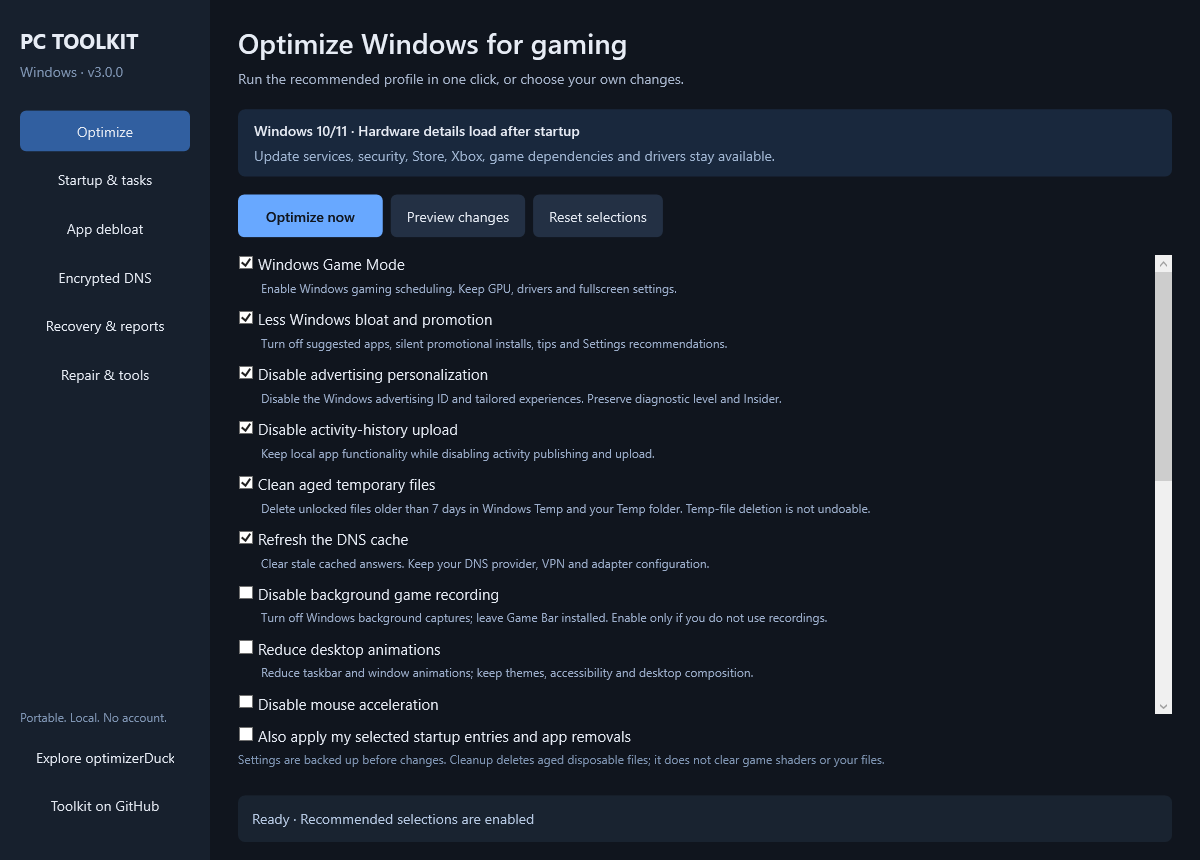
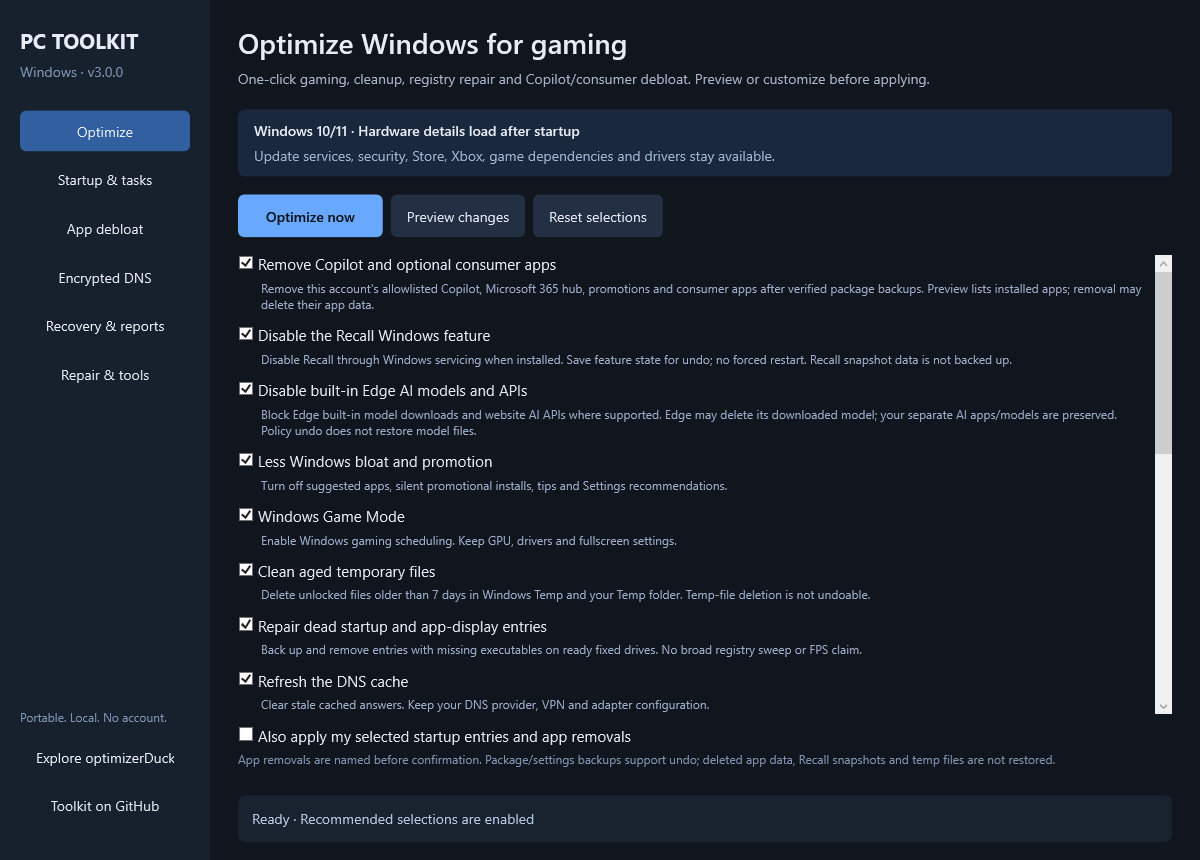
Expand one-click AI debloat and repair short-path cleanup with checked recovery

diff --git a/Toolkit.xaml b/Toolkit.xaml
@@ -63,7 +63,7 @@
         <Grid.RowDefinitions><RowDefinition Height="Auto"/><RowDefinition Height="Auto"/><RowDefinition Height="*"/><RowDefinition Height="Auto"/></Grid.RowDefinitions>
         <StackPanel>
           <TextBlock Text="Optimize Windows for gaming" Style="{StaticResource Heading}"/>
-          <TextBlock Text="Run the recommended profile in one click, or choose your own changes." Style="{StaticResource Description}"/>
+          <TextBlock Text="One-click gaming, cleanup, registry repair and Copilot/consumer debloat. Preview or customize before applying." Style="{StaticResource Description}"/>
           <Border Background="#19283D" Padding="16,12" CornerRadius="7" Margin="0,0,0,18">
             <StackPanel>
               <TextBlock Name="HardwareText" Text="Windows 10/11 · Hardware details load after startup" FontWeight="SemiBold"/>
@@ -79,7 +79,7 @@
         <ScrollViewer Grid.Row="2" VerticalScrollBarVisibility="Auto"><StackPanel Name="OptionsPanel"/></ScrollViewer>
         <StackPanel Grid.Row="3" Margin="0,12,0,12">
           <CheckBox Name="IncludeReviewed" Content="Also apply my selected startup entries and app removals" IsChecked="False" ToolTip="Select rows in Startup and App debloat first. They can be included in this same one-click operation and recovery report."/>
-          <TextBlock Text="Settings are backed up before changes. Cleanup deletes aged disposable files; it does not clear game shaders or your files." Foreground="#7E94B2" FontSize="12"/>
+          <TextBlock Text="App removals are named before confirmation. Package/settings backups support undo; deleted app data, Recall snapshots and temp files are not restored." Foreground="#7E94B2" FontSize="12"/>
         </StackPanel>
       </Grid>
       <Grid Name="StartupPage" Visibility="Collapsed">
@@ -106,7 +106,7 @@
           <ComboBox Name="ProviderCombo" DisplayMemberPath="Name" Height="36"/>
         </StackPanel>
         <WrapPanel Grid.Row="2"><Button Name="ApplyDns" Content="Apply encrypted DNS" Background="#68A8FF" Foreground="#10151E"/><Button Name="VerifyDns" Content="Verify"/><Button Name="RestoreDns" Content="Restore previous"/><Button Name="DhcpDns" Content="Use automatic DNS"/><Button Name="RefreshDns" Content="Refresh adapters" Margin="0,10,0,0"/></WrapPanel>
-        <TextBlock Grid.Row="3" Text="Mullvad public encrypted DNS ends November 2, 2026. Quad9 is the recommended ongoing provider.&#10;&#10;DoH encrypts DNS queries. VPN routing, public IP, browsers and unrelated adapters retain their own configuration. IPv4 and IPv6 automatic/static modes are saved separately." Foreground="#9FB5D2" Margin="0,24,0,0"/>
+        <TextBlock Grid.Row="3" Text="Mullvad public encrypted DNS ends November 2, 2026; new applies have been removed. Existing backups remain restorable. Choose Quad9 or AdGuard for ongoing service.&#10;&#10;DoH encrypts DNS queries. VPN routing, public IP, browsers and unrelated adapters retain their own configuration. IPv4 and IPv6 automatic/static modes are saved separately." Foreground="#9FB5D2" Margin="0,24,0,0"/>
       </Grid>
       <Grid Name="RecoveryPage" Visibility="Collapsed">
         <Grid.RowDefinitions><RowDefinition Height="Auto"/><RowDefinition Height="Auto"/><RowDefinition Height="*"/></Grid.RowDefinitions>

diff --git a/README.md b/README.md
@@ -12,7 +12,7 @@ Rendered from the actual WPF dashboard with initial selections. Hardware and res
 
 Download the **complete current source** with GitHub's **Code → Download ZIP**, extract it, then double-click **START_TOOLKIT.bat**. Accept UAC for your own Windows account. Keep the tool folders and shared `Modules` folder together. Older releases do not contain this dashboard.
 
-**Optimize now** applies six recommended actions together:
+**Optimize now** applies ten recommended actions together:
 
 - Enable Windows Game Mode.
 - Disable promotional suggestions and silent suggested-app installs.
@@ -20,10 +20,14 @@ Download the **complete current source** with GitHub's **Code → Download ZIP**
 - Disable activity-history publishing and upload.
 - Clean disposable Temp files older than seven days, checking write/access age and skipping protected paths, links and locked files.
 - Refresh cached DNS answers, preserving provider and adapter settings.
+- Repair confirmed dead startup/MuiCache registry entries with typed backups.
+- Disable the Recall optional feature when present and enabled, saving its state for undo.
+- Remove allowlisted consumer apps, including modern Microsoft Copilot and the Microsoft 365 hub, after verified package copies.
+- Disable Edge built-in AI model downloads and website AI APIs where supported.
 
-**Preview changes** explains the plan without applying it. Eleven additional choices cover captures, mouse acceleration, animations, Explorer/taskbar preferences, Recall opt-out, Delivery Optimization cleanup, SSD ReTrim and targeted registry care. Some settings need sign-out to refresh; no restart is forced.
+**Preview changes** explains the plan without applying it. Nine additional choices cover captures, mouse acceleration, animations, Explorer/taskbar preferences, Delivery Optimization cleanup and SSD ReTrim. Some settings need sign-out to refresh; no restart is forced.
 
-For a larger one-click run, first select desired apps and startup items on their pages, then tick **Also apply my selected startup entries and app removals** on Optimize. They share one operation/recovery journal. App removal has a confirmation naming the apps.
+The one-click profile names installed apps in its removal confirmation; package backups are verified before each uninstall. To keep consumer apps, untick **Remove Copilot and optional consumer apps**. For individual app removals and startup control, select rows on their pages and tick **Also apply my selected startup entries and app removals**. These changes share one recovery journal.
 
 ## Six organized pages
 
@@ -40,7 +44,7 @@ The gaming console adds HAGS controls, temporary game-session priority/stay-awak
 
 ## Compatibility and registry care
 
-The recommended profile preserves Windows Update, Defender, Store, Xbox, Gaming Services, browser state, AI model stores, drivers, power/sleep, shaders, network offloads, timers and GPU interrupt settings. It does not mass-disable services, reset networking or remove packages without reviewed selections.
+The recommended profile preserves Windows Update, Defender, Store, Xbox, Gaming Services, browser state, AI model stores, drivers, power/sleep, shaders, network offloads, timers and GPU interrupt settings. It does not mass-disable services or reset networking. Consumer-AppX removal is a visible default choice with a named confirmation; Store, Xbox, Gaming Services, WebView and frameworks are excluded.
 
 Strict privacy, network reset and shader troubleshooting remain explicit advanced choices. No optimizer guarantees FPS gains or policy effects on every edition/build. Registry read-back proves a saved setting, not better frame times.
 
@@ -52,7 +56,7 @@ Existing DoH entries are updated in place. Restore matches adapter GUIDs and sep
 
 Quad9 requires its live TXT transport test to report `doh`; an unavailable test fails verification. AdGuard checks configuration/resolution without claiming the same live attestation.
 
-**Mullvad public encrypted DNS ends November 2, 2026.** Legacy profiles remain until then; new applies are subsequently blocked, while backup restore remains available. Use Quad9 or AdGuard for ongoing service. [Mullvad announcement](https://mullvad.net/en/blog/2026/9/3/shutting-down-our-public-encrypted-dns-servers-and-sponsoring-quad9-instead), [Quad9 services](https://docs.quad9.net/services/), [AdGuard DNS](https://adguard-dns.io/en/public-dns.html).
+**Mullvad public encrypted DNS ends November 2, 2026.** Its new-apply choices are removed now; old backups remain restorable. Historical Mullvad launchers open the supported-provider menu. Use Quad9 or AdGuard for ongoing service. [Mullvad announcement](https://mullvad.net/en/blog/2026/9/3/shutting-down-our-public-encrypted-dns-servers-and-sponsoring-quad9-instead), [Quad9 services](https://docs.quad9.net/services/), [AdGuard DNS](https://adguard-dns.io/en/public-dns.html).
 
 ## Recommended companion: optimizerDuck
 
@@ -66,7 +70,9 @@ Dashboard reports, typed registry journals, task states and verified package cop
 
 Registry state is saved **before** mutation, preserves types/literal environment strings, and is checked after restore. Undo keeps intervening registry changes and lists conflicts. Repeating completed undo preserves current state. Failed registry actions attempt to restore partial changes.
 
-Deleted temporary/cache files are not recoverable through the journal. App removal can delete app data; backups support package re-registration, not app-data recovery. Dependencies/servicing may prevent re-registration; the report identifies failures and Microsoft Store remains the reinstall route. System repair is logged maintenance, not a reversible registry tweak.
+Recall is disabled using the supported Windows optional-feature API with no forced restart. Undo re-enables the recorded feature; pending servicing changes require a restart before verification. The dashboard removes the modern Copilot app rather than relying on the retiring legacy Copilot policy. AI controls preserve Windows AI frameworks and separate local-AI applications/model stores. Browser-policy support varies by version/profile. [Copilot removal](https://learn.microsoft.com/en-us/windows/client-management/manage-windows-copilot), [Recall management](https://learn.microsoft.com/en-us/windows/client-management/manage-recall), [Edge model policy](https://learn.microsoft.com/en-us/deployedge/microsoft-edge-browser-policies/genailocalfoundationalmodelsettings).
+
+Deleted temporary/cache files, Recall snapshots and browser-built-in AI models are not recoverable through the journal. Windows/Store updates may offer apps again; removal affects the current account, not provisioning for future accounts. App removal can delete app data; backups support package re-registration, not app-data recovery. Dependencies/servicing may prevent re-registration; the report identifies failures and Microsoft Store remains the reinstall route. System repair is logged maintenance, not a reversible registry tweak.
 
 Advanced consoles retain directories under `%ProgramData%\WindowsPCToolkit`: `GamingOptimizer\Snapshots`, `PrivacyGuard\Snapshots`, `EncryptedDNS\Snapshots`, `PCFixer\NetworkSnapshots` / `AIFeatureSnapshots`, and `Cleaner\Logs` / `RegistryBackups`.
 

diff --git a/VALIDATION_REPORT.md b/VALIDATION_REPORT.md
@@ -4,9 +4,9 @@ Windows PC Toolkit 3.0.0, local Windows 11 validation on October 1, 2026.
 
 ## Observed results
 
-- **72 regression and real-boundary checks passed** in Windows PowerShell 5.1, STA.
+- **88 regression and real-boundary checks passed** in Windows PowerShell 5.1, STA.
 - **37 PowerShell files parsed**, and launcher/DoH/safety checks passed in `Validate_All.ps1`.
-- Native WPF loaded **55 controls and 17 optimization choices** from a freshly copied package in a path containing spaces, an apostrophe and non-English text.
+- Native WPF loaded **55 controls and 19 optimization choices** from a freshly copied package in a path containing spaces, an apostrophe and non-English text.
 - Actual WPF Preview button → Start-Job worker → DispatcherTimer → result text/control refresh completed.
 - `docs/images/dashboard.png` rendered from the real WPF tree and visually inspected.
 - Read-only native Windows probes loaded OS/hardware, essential services, startup/task and optional-AppX inventories. A redirected DNS snapshot captured schema 4 state without changing adapter configuration.
@@ -14,6 +14,8 @@ Windows PC Toolkit 3.0.0, local Windows 11 validation on October 1, 2026.
 ## Tested boundaries
 
 Real disposable HKCU values and serialized journals cover String, ExpandString, Binary, MultiString, QWord, absent values and UTF-8 text. Exact undo, failed backup before mutation, intervening-user conflicts, repeated undo, interrupted pending writes, combined startup/profile journals and rollback after a partial registry action are exercised.
+
+Actual robocopy and SHA-256 checks run on disposable package files, followed by simulated AppX removal/re-registration and Recall feature APIs. Tests cover protected packages, failed backups blocking removal, default debloat preview, feature-state journaling/undo and already-disabled features. Privacy/AI recovery injection covers denied reads/writes and failed service restart without claiming successful restore.
 
 Real disposable filesystem tests cover old/recent/accessed files, protected data, junction escape prevention, actual deletion and successful-removal accounting. A fresh worker process verifies quoted paths and JSON results; native subprocess tests cover stderr and nonzero exit codes.
 
@@ -33,4 +35,4 @@ powershell.exe -NoProfile -STA -ExecutionPolicy Bypass -File .\Toolkit.ps1 -Rend
 
 ## Runtime limits
 
-No live optimization profile, adapter DNS change, Windows repair, app removal/re-registration, ReTrim or update-cache rebuild was applied during development. Package backup/re-registration and real provider connectivity need target-machine use to establish their runtime outcome. Saved policy read-back does not establish edition support or FPS gains. Deleted temp/cache files and removed app data are not restored by the journal. No claim of universal compatibility or measured gaming improvement is made.
+No live optimization profile, adapter DNS change, Windows repair, app removal/re-registration, ReTrim or update-cache rebuild was applied during development. Real AppX uninstall/re-registration, Recall servicing and provider connectivity need target-machine use to establish their runtime outcome. Package-file copy/hash verification used real disposable files; AppX and optional-feature changes were simulated. Saved policy read-back does not establish edition support or FPS gains. Deleted temp/cache files and removed app data, Recall snapshots and browser-built-in AI models are not restored by the journal. No claim of universal compatibility or measured gaming improvement is made.

diff --git a/CHANGELOG.md b/CHANGELOG.md
@@ -2,15 +2,17 @@
 
 ## Toolkit 3.0.0 (2026-10-01)
 
-- New native WPF dashboard: Optimize, Startup/tasks, App debloat, Encrypted DNS, Recovery/reports and Repair/tools. One-click six-action recommended profile, eleven optional choices and reviewed app/startup selections in one journal.
+- New native WPF dashboard: Optimize, Startup/tasks, App debloat, Encrypted DNS, Recovery/reports and Repair/tools. One-click ten-action recommended profile, nine optional choices and reviewed app/startup selections in one journal.
 - Typed before-write registry backups, read-back, conflict-aware/idempotent undo, per-action failure reporting and partial registry rollback. UTF-8 state and quoted Unicode/space/apostrophe paths.
 - Startup Run entries and third-party boot/logon tasks; consumer-AppX allowlist with verified package copies before removal. Essential packages stay protected. App-data and cache deletion limits are explicit.
-- DNS 2.2: modify existing DoH entries in place, GUID-based adapter restore, per-family automatic/static state, affected-entry snapshots, failed live Quad9 checks fail verification, AdGuard profile and Mullvad public-service retirement handling.
+- DNS 2.2: modify existing DoH entries in place, GUID-based adapter restore, per-family automatic/static state, affected-entry snapshots, failed live Quad9 checks fail verification, AdGuard profile and immediate removal of new Mullvad applies ahead of public-service retirement; legacy backups remain restorable.
 - Cleaner 1.1: aged-temp and link guards, protected model/app stores/backups/Recall/update data, targeted registry-care journal and consistent selection numbering.
 - Gaming 5.0: root one-click profile integration and interrupted-session priority restoration.
 - Fixer 7.2: DISM before SFC, actual native output rather than guessed SFC repair verdicts, guarded shared temp cleanup, pending-update restart checks, checked DNS recovery, and update-cache repair that aborts on failed stops and reports partial/restart failures.
-- Privacy 2.1: fail closed on unreadable registry snapshot state.
-- 72 native Windows regression/boundary checks, fresh-package WPF/worker tests, expanded CI, actual dashboard render and rewritten documentation.
+- Privacy 2.1: fail closed on unreadable registry snapshot state; verify registry/service/task undo and surface restore failures.
+- Default AI/consumer debloat: modern Copilot AppX removal, checked Recall optional-feature disabling and Edge built-in model/API policies. Package and feature-state recovery; data-deletion limits remain explicit.
+- Normalize short/long Windows Temp paths in shared cleanup, fixing skipped deletions for accounts using 8.3 aliases.
+- 88 native Windows regression/boundary checks, fresh-package WPF/worker tests, expanded CI, actual dashboard render and rewritten documentation.
 - Recommend optimizerDuck in the dashboard and GitHub README, with an explicit coverage map. No Duck source or executable is bundled.
 ## Toolkit v2.1.3 (2026-09-18)
 

diff --git a/dns-encrypted-doh/README.md b/dns-encrypted-doh/README.md
@@ -6,11 +6,10 @@ Windows 11 DNS-over-HTTPS using one provider per physical adapter. Use the [dash
 | --- | --- | --- |
 | Quad9 Secure | `9.9.9.9`, `149.112.112.112` | `https://dns.quad9.net/dns-query` |
 | AdGuard DNS | `94.140.14.14`, `94.140.15.15` | `https://dns.adguard-dns.com/dns-query` |
-| Mullvad legacy | Profile-specific | Official Mullvad templates until retirement |
 
 Matching IPv6 servers are registered; adapters receive them only with usable IPv6 and a default IPv6 route. Quad9 is the recommended ongoing profile. [Quad9](https://docs.quad9.net/services/), [AdGuard](https://adguard-dns.io/en/public-dns.html).
 
-**Mullvad public DNS retires November 2, 2026.** New Mullvad applies are blocked from then onward; backup restore remains available. [Official announcement](https://mullvad.net/en/blog/2026/9/3/shutting-down-our-public-encrypted-dns-servers-and-sponsoring-quad9-instead).
+**Mullvad public DNS retires November 2, 2026.** New Mullvad applies and menu choices are removed now; backup restore remains available. [Official announcement](https://mullvad.net/en/blog/2026/9/3/shutting-down-our-public-encrypted-dns-servers-and-sponsoring-quad9-instead).
 
 ## Correctness
 
@@ -22,7 +21,7 @@ Matching IPv6 servers are registered; adapters receive them only with usable IPv
 - Attempt rollback after failed apply and report rollback failures.
 - Automatic DNS preserves global DoH entries used by other adapters.
 
-AdGuard/Mullvad checks validate configuration/resolution without claiming Quad9's live attestation. DoH does not change public IP or replace a VPN.
+AdGuard checks validate configuration/resolution without claiming Quad9's live attestation. DoH does not change public IP or replace a VPN.
 
 Snapshots: `%ProgramData%\WindowsPCToolkit\EncryptedDNS\Snapshots`. Schema 4 tracks affected encryption entries. Schema 2/3 backups with stable adapter identity remain readable; only backups that recorded mode can restore automatic/static exactly.
 
@@ -34,4 +33,4 @@ Snapshots: `%ProgramData%\WindowsPCToolkit\EncryptedDNS\Snapshots`. Schema 4 tra
 .\DNS_Manager.ps1 -Action DHCP -InterfaceIndex 12
 ```
 
-Replace `12` with your physical adapter index. Historical `DNS_Set_Quad9_Mullvad.bat` opens the menu, never a mixed profile.
+Replace `12` with your physical adapter index. Historical `DNS_Set_Quad9_Mullvad.bat` and `DNS_Set_Mullvad_AdBlock.bat` open the supported-provider menu. They do not silently change your provider.

diff --git a/docs/FEATURE_COVERAGE.md b/docs/FEATURE_COVERAGE.md
@@ -8,9 +8,9 @@
 | Privacy | Advertising, tailored experiences, activity upload, suggestions and separate Balanced/Strict profiles. |
 | GPU | Driver/MSI/display audits and manual HAGS; no automatic vendor power-state or undocumented GPU writes. |
 | Power | Native settings, plan audit and temporary stay-awake; permanent plans, hibernation and USB policies preserved by default. |
-| Bloatware/services | Reviewed consumer-AppX removal with verified copies, startup/task disable and service health; no blanket service-disable profile. |
+| Bloatware/services | Default allowlisted consumer-AppX removal with a named confirmation and verified copies, startup/task disable and service health; no blanket service-disable profile. |
 | Appearance | Animations, themes, extensions, taskbar alignment and Widgets button; a subset of Duck's catalogue. |
-| AI | Build-gated Recall opt-out and reversible AI/browser policies; existing models/data preserved. |
+| AI | Modern Copilot removal, build-gated Recall feature disable/undo, Edge built-in model/API policies and advanced Windows/browser policies. Separate local AI stores preserved; deleted snapshots/browser models not restored. |
 | Hardware | OS/build, CPU, RAM and services in WPF; GPU/storage/display details in console audits. |
 | Startup/tasks | Run entries and third-party boot/logon tasks with saved-state undo; general task run/stop/delete in Windows Task Scheduler. |
 | Cleanup | Aged Temp, official Delivery Optimization, scan-first cleaner and ReTrim; shaders for troubleshooting only. |

diff --git a/pc-corruption-fixer/README.md b/pc-corruption-fixer/README.md
@@ -16,7 +16,7 @@ Run only for an update fault, from the explicit console option. Pending servicin
 
 Explicit Winsock reset is separate from Full Repair. Deeper TCP/IP reset needs its own confirmation because it can remove custom adapter configuration. Network backups abort on unreadable DNS/DoH state; restore uses adapter GUIDs and separately verifies IPv4/IPv6 automatic/static modes and existing DoH templates.
 
-Other console tools: disk scan, Store/AppX repair, event logs, service/driver/startup diagnostics, time sync, disk-space analysis, performance counters, HTML report and reversible AI/browser privacy policies. AI policy support depends on Windows edition/build. ResetBase, service removal, strict policies and other advanced operations are separate choices.
+Other console tools: disk scan, Store/AppX repair, event logs, service/driver/startup diagnostics, time sync, disk-space analysis, performance counters, HTML report and reversible AI/browser privacy policies. AI policy support depends on Windows edition/build and browser version. Policies can delete Recall snapshots and browser built-in models; undo restores policy values, not deleted data. Use the dashboard for modern Copilot app removal and checked Recall feature disabling. ResetBase, service removal, strict policies and other advanced operations are separate choices.
 
 Console logs are written to the Desktop. Network/AI/service backups are under `%ProgramData%\WindowsPCToolkit\PCFixer`. Dashboard repair reports are in `WindowsPCToolkit\Suite\Runs`.
 

diff --git a/pc-privacy-guard/README.md b/pc-privacy-guard/README.md
@@ -23,7 +23,7 @@ Before any profile or individual action, the app records the exact registry valu
 
 `%ProgramData%\WindowsPCToolkit\PrivacyGuard\Snapshots`
 
-Undo restores those values. It does not delete whole Edge, Chrome, Firefox, or Windows policy branches, so unrelated settings remain intact.
+Undo checks the snapshot's computer/user, restores those values and verifies registry types, service states and task flags. Restore failures stop the success message and show the actual error. It does not delete whole Edge, Chrome, Firefox, or Windows policy branches, so unrelated settings remain intact.
 
 ## Encrypted DNS
 
